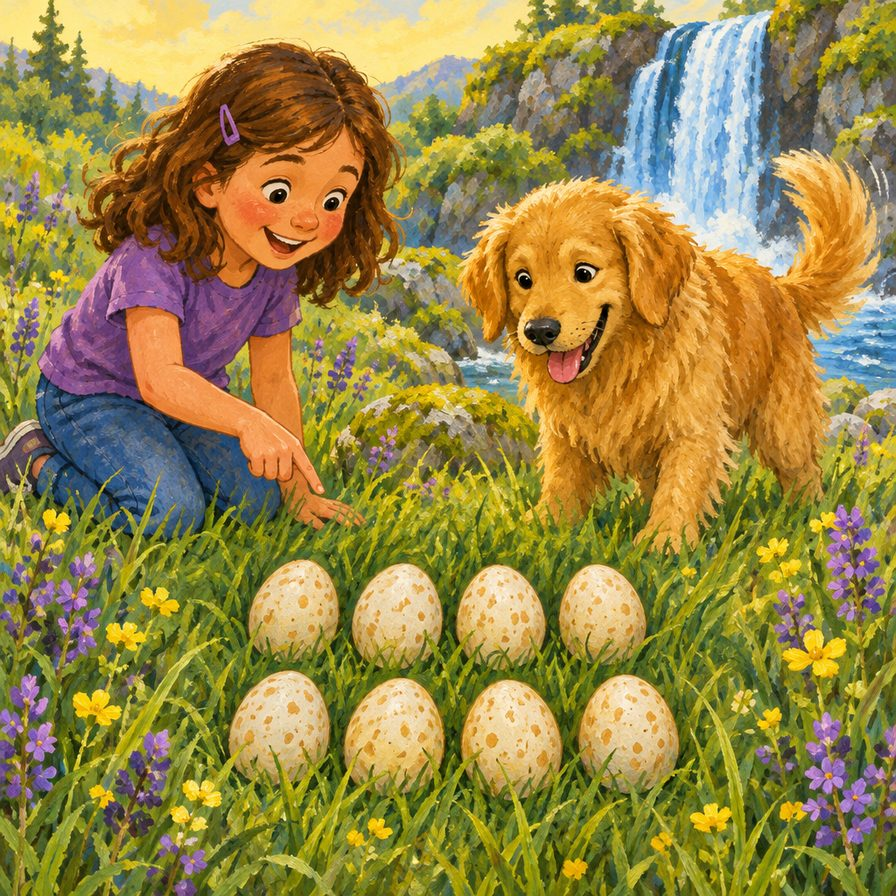
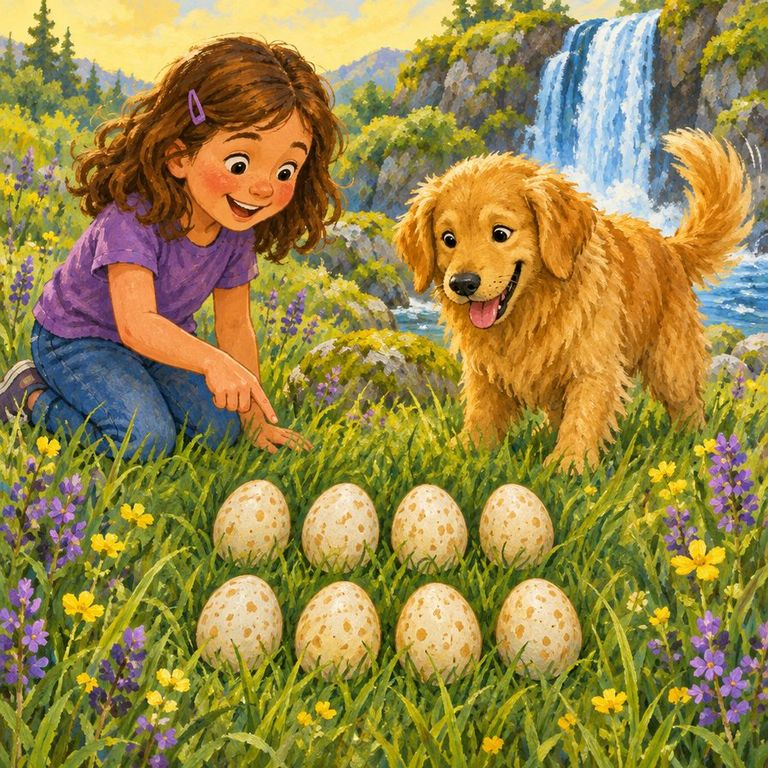
Dino book: true branching story, fully painted
The book is a tree: each option names its own next chapter (4 versions of
chapter 2, 4 of chapter 3, 4 endings). Every page carries a painting in
the cover style (art/dino, 24 images), with the 3D scene as fallback.

diff --git a/index.html b/index.html
@@ -1132,70 +1132,120 @@ const DEMO_BOOKS = (() => {
   const BOAT = {type:"boat", x:0, z:-.75, color:"#B9824F", color2:"#FFF3DC", move:"bob"};
   const farDot = at(DOT, 2.6, -2.7, {turn:-.3});
 
+  /* The book is a tree. Every option leads to its own next chapter, so what the child picks in chapter 1
+     decides which chapter 2 they read, and so on to one of four endings. Nothing is replayed.
+     Each page has a painting (art/dino/...), with a 3D scene as a stand-in if the painting cannot load. */
+  const S_EGGS = day({characters:[MIA, as(BOBO,{move:"hop"})], props:[eggs(8)]});
+  const S_NEST = day({characters:[at(MIA,-2.4,1.7,{turn:.5}), at(BOBO,-3.5,2.2,{turn:.5}), DOT], props:[eggs(4)], fixed:[NEST].concat(nestEggs(4))});
+  const S_BABIES = day({characters:[at(MIA,-2.8,1.5,{turn:.5})].concat(babies(1.2)), fixed:[NEST].concat(nestEggs(4))});
+  const S_RIVER = dusk({characters:[at(MIA,-2.6,1.7,{turn:.4}), at(BOBO,-3.7,2.2,{turn:.4}), farDot].concat(babies(1.5, "idle")), fixed:[{type:"river", x:0, z:-.9}, BOAT]});
+  const S_NIGHT = dusk({time:"night", sky:"#22315F", fixed:[NEST, {type:"campfire", x:0, z:2.6}], characters:[as(MIA,{move:"wave"}), as(BOBO,{move:"hop"}), DOT, baby(2.6,1.1,"idle"), baby(3.2,1.1,"idle"), baby(2.6,1.5,"idle"), baby(3.2,1.5,"idle")], scenery:DUSK.filter(o => o.type !== "sun").concat([{type:"moon",x:-4,z:-2},{type:"star",x:0,z:-2},{type:"star",x:3.6,z:-1}])});
+  const P = (text, img, scene) => ({text, img: "art/dino/" + img + ".jpg", scene});
+  const BERRY_Q = {question: "There are 4 babies and 8 berries. How should Mia share them?", options: [
+    {label: "Give each baby 2 berries", hidden_type: "wise", leads_to: "Every baby gets the same. Nobody is left out.", next: "c3w"},
+    {label: "Give each baby 1 berry for now", hidden_type: "okay", leads_to: "Fair, but 4 berries are left and the babies are still hungry.", next: "c3o"},
+    {label: "Give all 8 to the cutest baby", hidden_type: "tempting_bad", leads_to: "One tummy ache and three sad babies.", coach: "It is hard when one is extra cute! Sharing equally means every baby gets the same: 2 each.", next: "c3t"},
+    {label: "Eat the berries herself", hidden_type: "clearly_bad", leads_to: "Four hungry babies.", coach: "Mia was hungry too. The berries were for the babies, and 8 shared by 4 is 2 each.", next: "c3b"}]};
+  const HATCH = [P("Crack! Crack! Four baby dinos pop out.", "c2c", S_BABIES), P("The babies open their mouths wide. They are very hungry!", "c2c", S_BABIES)];
+  const BOAT_Q = {question: "The boat carries half of the 4 babies. How many go first?", options: [
+    {label: "2 babies first, then 2 more", hidden_type: "wise", leads_to: "Half of 4 is 2. Two safe trips.", next: "ew"},
+    {label: "1 baby at a time", hidden_type: "okay", leads_to: "Safe, but four slow trips in the dark.", next: "eo"},
+    {label: "All 4 jump on. Splash party!", hidden_type: "tempting_bad", leads_to: "The little boat tips over.", coach: "A splash party sounds fun! The boat only holds half. Half of 4 is 2.", next: "et"},
+    {label: "Let them swim alone", hidden_type: "clearly_bad", leads_to: "The water is too fast for little dinos.", coach: "The river was too fast for little dinos. The boat can take half at a time: 2 and 2.", next: "eb"}]};
+  const RIVER = last => [
+    P("Bobo finds a little boat. It can carry half of the 4 babies each trip.", "c3c", S_RIVER),
+    P("Dot waits on the other side. She waves her tail.", "c3e", S_RIVER),
+    P(last, "c3e", S_RIVER)];
+
   return { dino: {
     key: "dino", canned: true, title: "Dino Rescue at Fraction Falls",
     settings: {child_name:"Mia", child_age:7, lesson:"Halves and sharing equally", lesson_type:"math"},
     check: {question: "What is half of 8?", answer: "4", accept: ["4", "four"]},
     report: {summary: "Mia's story practised halves and equal sharing with 8 eggs, 8 berries and 4 baby dinos.", highlights: ["Half of 8 is 4", "8 shared by 4 is 2 each", "Half of 4 is 2"], ask: "If we cut your sandwich in half, how many pieces do we get, and are they the same size?"},
-    chapters: [
-      { pages: [
-          {text: "Mia and Bobo walk to Fraction Falls. The water goes splash, splash, splash.", scene: day({characters:[as(MIA,{move:"wave"}), as(BOBO,{move:"hop"})]})},
-          {text: "In the tall grass they find something round. It is 8 dino eggs!", img: "art/dino/c1b.jpg", scene: day({characters:[as(MIA,{move:"wave"}), as(BOBO,{move:"hop"})], props:[eggs(8)]})},
-          {text: "The eggs are warm and wobbly. Bobo sniffs them. Sniff, sniff.", scene: day({characters:[MIA, BOBO], props:[eggs(8, {move:"shiver"})]})},
-          {text: "Oh no! One egg rolls away. It rolls down the hill.", scene: day({characters:[as(MIA,{move:"hop"}), as(BOBO,{move:"hop"})], props:[eggs(7)], fixed:[eggAt(.4, 3, "rollaway")]})},
-          {text: "Bobo runs fast. He brings the egg back, safe and sound.", scene: day({characters:[as(MIA,{move:"wave"}), as(BOBO,{move:"hop"})], props:[eggs(8)]})},
-          {text: "Then a big green dino walks up. Her name is Dot, and she looks worried.", scene: day({characters:[MIA, BOBO, DOT], props:[eggs(8)]})}],
+    start: "c1",
+    graph: {
+      c1: { pages: [
+          P("Mia and Bobo walk to Fraction Falls. The water goes splash, splash, splash.", "c1a", day({characters:[as(MIA,{move:"wave"}), as(BOBO,{move:"hop"})]})),
+          P("In the tall grass they find something round. It is 8 dino eggs!", "c1b", S_EGGS),
+          P("The eggs are warm and wobbly. Bobo sniffs them. Sniff, sniff.", "c1b", S_EGGS),
+          P("Oh no! One egg rolls away. It rolls down the hill.", "c1d", day({characters:[as(MIA,{move:"hop"}), as(BOBO,{move:"hop"})], props:[eggs(7)], fixed:[eggAt(.4, 3, "rollaway")]})),
+          P("Bobo runs fast. He brings the egg back, safe and sound.", "c1f", day({characters:[MIA, as(BOBO,{move:"hop"}), DOT], props:[eggs(8)]})),
+          P("Then a big green dino walks up. Her name is Dot, and she looks worried.", "c1f", day({characters:[MIA, BOBO, DOT], props:[eggs(8)]}))],
         question: "Dot's nest holds half of the 8 eggs. How many should Mia carry to the nest?",
         options: [
-          {label: "Carry 4 eggs to the nest", hidden_type: "wise", leads_to: "Half of 8 is 4. The nest is just right.",
-            result: {text: "Mia counts 4 eggs into the nest. Half are safe! Dot smiles a big dino smile.", scene: day({characters:[at(MIA,-2.2,1.7,{turn:.5, move:"wave"}), at(BOBO,-3.4,2.2,{turn:.5}), DOT], props:[eggs(4)], fixed:[NEST].concat(nestEggs(4))})}},
-          {label: "Carry 3 eggs, then come back", hidden_type: "okay", leads_to: "It works, but it takes two trips.",
-            result: {text: "Mia carries 3 eggs. That is not half yet. She goes back for 1 more, and now the nest has 4.", scene: day({characters:[at(MIA,-2.2,1.7,{turn:.5}), at(BOBO,-3.4,2.2,{turn:.5}), DOT], props:[eggs(5)], fixed:[NEST].concat(nestEggs(3))})}},
-          {label: "Roll all 8 down the hill. Wheee!", hidden_type: "tempting_bad", leads_to: "Fun for a second, then eggs everywhere.", coach: "Rolling looked fun! Eggs are safer when we carry them, and half of 8 is 4.",
-            result: {text: "Wheee! The eggs roll everywhere. Mia and Bobo chase them for a long time.", scene: day({characters:[at(MIA,-2.6,1.6,{move:"hop"}), at(BOBO,-1.2,2.4,{move:"walk"}), DOT], fixed:[eggAt(-4,2.6),eggAt(-.2,1.2,"rollaway"),eggAt(1.6,2.8),eggAt(3.6,1.8),eggAt(.6,2.2,"rollaway"),eggAt(4.6,2.9),eggAt(-3.2,.6),eggAt(2.4,.6)]})}},
-          {label: "Leave them. Eggs are boring.", hidden_type: "clearly_bad", leads_to: "The eggs get cold.", coach: "The eggs needed a helper. Next time we can count out half and carry them.",
-            result: {text: "The wind blows. The eggs get cold and shiver. Dot looks sad, so Mia hurries back to help.", scene: day({sky:"#B9C7D8", characters:[at(MIA,-3.2,1.8,{turn:.5}), at(BOBO,-4.2,2.4,{turn:.5}), DOT], props:[eggs(8,{move:"shiver"})]})}}] },
-      { pages: [
-          {text: "Now 4 eggs sit in the nest. The other 4 eggs rest in the grass.", scene: day({characters:[at(MIA,-2.4,1.7,{turn:.5}), at(BOBO,-3.5,2.2,{turn:.5})], props:[eggs(4)], fixed:[NEST].concat(nestEggs(4))})},
-          {text: "Mia and Bobo watch the eggs in the grass. They wait and wait.", scene: day({characters:[at(MIA,-2.4,1.7,{turn:.5}), at(BOBO,-3.5,2.2,{turn:.5, move:"hop"})], props:[eggs(4)], fixed:[NEST].concat(nestEggs(4))})},
-          {text: "Crack! Crack! The 4 eggs in the grass start to hatch.", scene: day({characters:[at(MIA,-2.4,1.7,{turn:.5, move:"hop"}), at(BOBO,-3.5,2.2,{turn:.5, move:"hop"})], props:[eggs(4, {move:"hop"})], fixed:[NEST].concat(nestEggs(4))})},
-          {text: "Four baby dinos pop out. They blink at Mia.", scene: day({characters:[at(MIA,-2.8,1.7,{turn:.5, move:"wave"}), at(BOBO,-3.9,2.3,{turn:.5, move:"hop"})].concat(babies(1.5, "idle")), fixed:[NEST].concat(nestEggs(4))})},
-          {text: "The babies open their mouths wide. They are very hungry!", scene: day({characters:[at(MIA,-2.8,1.7,{turn:.5}), at(BOBO,-3.9,2.3,{turn:.5})].concat(babies(1.5)), fixed:[NEST].concat(nestEggs(4))})},
-          {text: "Mia looks in her bag. She has 8 red berries.", scene: day({characters:[at(MIA,-2.8,1.3,{turn:.5})].concat(babies(.7, "idle")), props:[{type:"apple", count:8, size:.55, color:"#C2185B"}], fixed:[NEST].concat(nestEggs(4))})}],
-        question: "There are 4 babies and 8 berries. How should Mia share them?",
-        options: [
-          {label: "Give each baby 2 berries", hidden_type: "wise", leads_to: "8 shared by 4 is 2 each.",
-            result: {text: "Each baby gets 2 berries. Eight shared by four is two each. Nobody is left out.", scene: day({characters:[at(MIA,-2.8,1.5,{turn:.5, move:"wave"})].concat(babies(1.2)), fixed:[NEST].concat(nestEggs(4), BX.reduce((a, x) => a.concat([berry(x-.16, 2.1), berry(x+.16, 2.1)]), []))})}},
-          {label: "Give each baby 1 berry for now", hidden_type: "okay", leads_to: "Fair, but they are still hungry.",
-            result: {text: "Each baby gets 1 berry. They are still hungry, so Mia hands out the other 4 too.", scene: day({characters:[at(MIA,-2.8,1.5,{turn:.5})].concat(babies(1.2, "idle")), fixed:[NEST].concat(nestEggs(4), BX.map(x => berry(x, 2.1)), [berry(-2.6,2.6),berry(-2.9,2.75),berry(-2.3,2.75),berry(-2.6,2.95)])})}},
-          {label: "Give all 8 to the cutest baby", hidden_type: "tempting_bad", leads_to: "One tummy ache and three sad babies.", coach: "It is hard when one is extra cute! Sharing equally means every baby gets the same: 2 each.",
-            result: {text: "One baby gets all 8 berries and a tummy ache. Three babies cry. Mia shares again, 2 each.", scene: day({characters:[at(MIA,-2.8,1.5,{turn:.5})].concat([baby(-1.2,1.2,"hop"), baby(-.4,1.2,"idle"), baby(.4,1.2,"idle"), baby(1.2,1.2,"idle")]), fixed:[NEST].concat(nestEggs(4), [0,1,2,3,4,5,6,7].map(i => berry(-1.2 + Math.cos(i*.785)*.5, 2.3 + Math.sin(i*.785)*.35)))})}},
-          {label: "Eat the berries herself", hidden_type: "clearly_bad", leads_to: "Hungry babies.", coach: "Mia was hungry too. The berries were for the babies, and 8 shared by 4 is 2 each.",
-            result: {text: "Mia eats the berries. Four little tummies rumble. Mia feels bad and picks 8 more.", scene: day({characters:[at(MIA,-2.8,1.5,{turn:.5})].concat(babies(1.2, "idle")), fixed:[NEST].concat(nestEggs(4))})}}] },
-      { pages: [
-          {text: "The sun is going down. It is time for the babies to go home.", scene: dusk({characters:[at(MIA,-2.6,1.7,{turn:.4}), at(BOBO,-3.7,2.2,{turn:.4})].concat(babies(1.5, "idle"))})},
-          {text: "But home is on the other side of the river. The water is fast.", scene: dusk({characters:[at(MIA,-2.6,1.7,{turn:.4}), at(BOBO,-3.7,2.2,{turn:.4})].concat(babies(.4, "idle"))})},
-          {text: "Bobo finds a little boat. It is small and wobbly.", scene: dusk({characters:[at(MIA,-2.6,1.7,{turn:.4}), at(BOBO,-1.6,.3,{turn:.6, move:"hop"})].concat(babies(1.5, "idle")), fixed:[{type:"river", x:0, z:-.9}, BOAT]})},
-          {text: "The boat can carry half of the 4 babies each trip.", scene: dusk({characters:[at(MIA,-2.6,1.7,{turn:.4, move:"wave"}), at(BOBO,-3.7,2.2,{turn:.4})].concat(babies(1.5)), fixed:[{type:"river", x:0, z:-.9}, BOAT]})},
-          {text: "Dot waits on the other side. She waves her tail.", scene: dusk({characters:[at(MIA,-2.6,1.7,{turn:.4}), at(BOBO,-3.7,2.2,{turn:.4}), farDot].concat(babies(1.5, "idle")), fixed:[{type:"river", x:0, z:-.9}, BOAT]})},
-          {text: "Mia thinks hard. Who goes first?", scene: dusk({characters:[at(MIA,-2.6,1.7,{turn:.4, move:"hop"}), at(BOBO,-3.7,2.2,{turn:.4}), farDot].concat(babies(1.5, "idle")), fixed:[{type:"river", x:0, z:-.9}, BOAT]})}],
-        question: "Half of the 4 babies go first. How many is that?",
-        options: [
-          {label: "2 babies first, then 2 more", hidden_type: "wise", leads_to: "Half of 4 is 2. Two safe trips.",
-            result: {text: "Two babies ride across, then two more. Half and half. Everyone is dry and safe.", scene: dusk({characters:[at(MIA,-2.6,1.7,{turn:.4, move:"wave"}), farDot, baby(-.25,-.7,"idle"), baby(.3,-.7,"idle"), baby(1.6,-2.5,"hop"), baby(3.6,-2.3,"hop")], fixed:[{type:"river", x:0, z:-.9}, BOAT]})}},
-          {label: "1 baby at a time", hidden_type: "okay", leads_to: "Safe, but slow.",
-            result: {text: "One by one they cross. It is slow and the sun is almost gone, but they all make it.", scene: dusk({characters:[at(MIA,-2.6,1.7,{turn:.4}), farDot, baby(0,-.7,"idle"), baby(-.4,1.5,"idle"), baby(.4,1.5,"idle"), baby(1.2,1.5,"idle")], fixed:[{type:"river", x:0, z:-.9}, BOAT]})}},
-          {label: "All 4 jump on. Splash party!", hidden_type: "tempting_bad", leads_to: "The boat tips over.", coach: "A splash party sounds fun! The boat only holds half. Half of 4 is 2.",
-            result: {text: "The boat tips. Splash! Four wet babies paddle back. They try again, two at a time.", scene: dusk({characters:[at(MIA,-2.6,1.7,{turn:.4, move:"hop"}), farDot, baby(-1.3,-.2,"hop"), baby(-.5,.2,"hop"), baby(.6,.1,"hop"), baby(1.4,-.2,"hop")], fixed:[{type:"river", x:0, z:-.9}, Object.assign({}, BOAT, {move:"spin"})]})}},
-          {label: "Let them swim alone", hidden_type: "clearly_bad", leads_to: "The water is too fast.", coach: "The river was too fast for little dinos. The boat can take half at a time: 2 and 2.",
-            result: {text: "The water is too fast. Mia calls the babies back just in time. They use the boat.", scene: dusk({characters:[at(MIA,-2.6,1.7,{turn:.4, move:"wave"}), farDot].concat(BX.map(x => baby(x, .5, "idle"))), fixed:[{type:"river", x:0, z:-.9}, BOAT]})}}] }],
-    endings: {
-      good: { pages: [
-        {text: "All the dinos are home. Dot gives Mia a shiny golden egg shell.", scene: dusk({time:"night", sky:"#22315F", fixed:[NEST, {type:"campfire", x:0, z:2.6}], props:[{type:"egg", count:1, color:"#FFD43B", move:"spin"}], characters:[as(MIA,{move:"wave"}), as(BOBO,{move:"hop"}), DOT, baby(2.6,1.1,"idle"), baby(3.2,1.1,"idle"), baby(2.6,1.5,"idle"), baby(3.2,1.5,"idle")], scenery:DUSK.filter(o => o.type !== "sun").concat([{type:"moon",x:-4,z:-2},{type:"star",x:0,z:-2},{type:"star",x:3.6,z:-1}])})},
-        {text: "Mia learned that half means two equal parts. Bobo wags his tail. The end.", scene: dusk({time:"night", sky:"#22315F", fixed:[NEST, {type:"campfire", x:0, z:2.6}], characters:[as(MIA,{move:"wave"}), as(BOBO,{move:"hop"}), DOT, baby(2.6,1.1,"hop"), baby(3.2,1.1,"hop"), baby(2.6,1.5,"hop"), baby(3.2,1.5,"hop")], scenery:DUSK.filter(o => o.type !== "sun").concat([{type:"moon",x:-4,z:-2},{type:"star",x:0,z:-2},{type:"star",x:3.6,z:-1}])})}] },
-      mixed: { pages: [
-        {text: "It took a few tries, but all the dinos are home at last.", scene: dusk({time:"night", sky:"#22315F", fixed:[NEST, {type:"campfire", x:0, z:2.6}], characters:[MIA, BOBO, DOT, baby(2.6,1.1,"idle"), baby(3.2,1.1,"idle"), baby(2.6,1.5,"idle"), baby(3.2,1.5,"idle")], scenery:DUSK.filter(o => o.type !== "sun").concat([{type:"moon",x:-4,z:-2},{type:"star",x:0,z:-2},{type:"star",x:3.6,z:-1}])})},
-        {text: "Mia learned that half means two equal parts. Next time she will count first. The end.", scene: dusk({time:"night", sky:"#22315F", fixed:[NEST, {type:"campfire", x:0, z:2.6}], characters:[as(MIA,{move:"wave"}), as(BOBO,{move:"hop"}), DOT, baby(2.6,1.1,"hop"), baby(3.2,1.1,"hop"), baby(2.6,1.5,"hop"), baby(3.2,1.5,"hop")], scenery:DUSK.filter(o => o.type !== "sun").concat([{type:"moon",x:-4,z:-2},{type:"star",x:0,z:-2},{type:"star",x:3.6,z:-1}])})}] } }
+          {label: "Carry 4 eggs to the nest", hidden_type: "wise", leads_to: "Half of 8 is 4. The nest is just right.", next: "c2w"},
+          {label: "Carry 3 eggs, then come back", hidden_type: "okay", leads_to: "Not half yet. A second trip, and a tired Mia.", next: "c2o"},
+          {label: "Roll all 8 down the hill. Wheee!", hidden_type: "tempting_bad", leads_to: "Eggs everywhere, and babies that hatch dizzy.", coach: "Rolling looked fun! Eggs are safer when we carry them, and half of 8 is 4.", next: "c2t"},
+          {label: "Leave them. Eggs are boring.", hidden_type: "clearly_bad", leads_to: "The eggs get cold in the wind.", coach: "The eggs needed a helper. Next time we can count out half and carry them.", next: "c2b"}] },
+
+      // chapter 2, four versions: one for each choice in chapter 1
+      c2w: Object.assign({ pages: [
+          P("Mia counts 4 eggs into the nest. One, two, three, four.", "r1w", S_NEST),
+          P("Half of 8 is 4! Dot smiles a big dino smile.", "r1w", S_NEST),
+          P("The other 4 eggs rest in the grass. Mia and Bobo watch them.", "c2a", S_NEST)].concat(HATCH, [
+          P("Mia looks in her bag. She has 8 red berries.", "c2e", S_BABIES)]) }, BERRY_Q),
+      c2o: Object.assign({ pages: [
+          P("Mia carries 3 eggs. Her arms are full.", "r1o", S_NEST),
+          P("Three is not half of 8. She has to go back for 1 more.", "r1o", S_NEST),
+          P("Two trips take a long time. Mia flops down in the grass to rest.", "c2a", S_NEST),
+          P("Crack! Crack! The 4 eggs in the grass hatch right next to her.", "c2c", S_BABIES),
+          P("Four baby dinos blink at Mia. They are very hungry!", "c2c", S_BABIES),
+          P("Mia is tired, but she finds 8 red berries in her bag.", "c2e", S_BABIES)] }, BERRY_Q),
+      c2t: Object.assign({ pages: [
+          P("Wheee! The eggs roll and bounce down the hill.", "r1t", day({characters:[at(MIA,-2.6,1.6,{move:"hop"}), at(BOBO,-1.2,2.4,{move:"walk"}), DOT], fixed:[eggAt(-4,2.6),eggAt(-.2,1.2,"rollaway"),eggAt(1.6,2.8),eggAt(3.6,1.8),eggAt(.6,2.2,"rollaway"),eggAt(4.6,2.9),eggAt(-3.2,.6),eggAt(2.4,.6)]})),
+          P("They roll everywhere. Mia and Bobo chase them for a long time.", "r1t", S_EGGS),
+          P("At last all 8 eggs are found. Mia puts them down very gently.", "c1b", S_EGGS),
+          P("But the bumpy ride woke them up. Crack! Four babies pop out early.", "c2c", S_BABIES),
+          P("The babies are dizzy from all that rolling. And very hungry!", "c2c", S_BABIES),
+          P("Mia is sorry. She finds 8 red berries in her bag to cheer them up.", "c2e", S_BABIES)] }, BERRY_Q),
+      c2b: Object.assign({ pages: [
+          P("Mia walks away. A cold wind starts to blow.", "r1b", day({sky:"#B9C7D8", characters:[at(MIA,-3.2,1.8,{turn:.5}), at(BOBO,-4.2,2.4,{turn:.5}), DOT], props:[eggs(8,{move:"shiver"})]})),
+          P("The eggs shiver. Dot looks so sad.", "r1b", S_EGGS),
+          P("Mia runs back. She tucks big leaves around the eggs like blankets.", "d1", S_EGGS),
+          P("Bobo curls up close. Dot blows warm air. Slowly the eggs get warm.", "d1", S_EGGS),
+          P("Crack! Four baby dinos pop out, safe and warm. They are hungry!", "c2c", S_BABIES),
+          P("Mia looks in her bag. She has 8 red berries.", "c2e", S_BABIES)] }, BERRY_Q),
+
+      // chapter 3, four versions: one for each choice in chapter 2
+      c3w: Object.assign({ pages: [
+          P("Each baby gets 2 berries. Eight shared by four is two each.", "r2w", S_BABIES),
+          P("Nobody is left out. Four full, happy babies!", "r2w", S_BABIES),
+          P("The sun is going down. Home is across the river, and the water is fast.", "c3a", S_RIVER)].concat(RIVER("Mia thinks hard. Who goes first?")) }, BOAT_Q),
+      c3o: Object.assign({ pages: [
+          P("Each baby gets 1 berry. That is fair, but 4 berries are left over.", "r2o", S_BABIES),
+          P("The babies are still hungry, so Mia hands out the other 4. Now it is 2 each.", "r2o", S_BABIES),
+          P("Sharing twice took a while. The sun is going down fast.", "c3a", S_RIVER)].concat(RIVER("It is getting late. Mia thinks hard. Who goes first?")) }, BOAT_Q),
+      c3t: Object.assign({ pages: [
+          P("The cutest baby gets all 8 berries. Gulp, gulp, gulp.", "r2t", S_BABIES),
+          P("Now one baby has a tummy ache, and three babies cry.", "r2t", S_BABIES),
+          P("Mia picks more berries so everyone gets 2. By then the sun is going down.", "c3a", S_RIVER)].concat(RIVER("One baby still feels wobbly. Mia thinks hard. Who goes first?")) }, BOAT_Q),
+      c3b: Object.assign({ pages: [
+          P("Mia eats the berries herself. Yum... oh no.", "r2b", S_BABIES),
+          P("Four little tummies rumble. Mia feels bad.", "r2b", S_BABIES),
+          P("She picks 8 more berries, 2 for each baby. By then the sun is going down.", "c3a", S_RIVER)].concat(RIVER("The babies are sleepy. Mia thinks hard. Who goes first?")) }, BOAT_Q),
+
+      // four endings: one for each choice in chapter 3
+      ew: { pages: [
+          P("Two babies ride across. Then two more. Half and half!", "r3w", S_RIVER),
+          P("Everyone is dry and safe on the other side.", "r3w", S_RIVER),
+          P("Dot gives Mia a shiny golden piece of eggshell to say thank you.", "e1", S_NIGHT),
+          P("Mia learned that half means two equal parts. The end.", "e1", S_NIGHT)] },
+      eo: { pages: [
+          P("One by one the babies cross. It takes four slow trips.", "r3o", S_RIVER),
+          P("The sun is gone and the stars are out, but they all make it.", "r3o", S_RIVER),
+          P("Dot tucks her babies in. She gives Mia a shiny piece of eggshell.", "e1", S_NIGHT),
+          P("Two at a time would be faster. Half of 4 is 2. The end.", "e1", S_NIGHT)] },
+      et: { pages: [
+          P("All four babies jump in. The little boat tips over. Splash!", "r3t", S_RIVER),
+          P("Four wet babies paddle back to the bank. Nobody is hurt.", "r3t", S_RIVER),
+          P("They try again, 2 at a time. Half and half works!", "r3w", S_RIVER),
+          P("Dot gives Mia a shiny piece of eggshell. Half of 4 is 2. The end.", "e1", S_NIGHT)] },
+      eb: { pages: [
+          P("The babies put their toes in. The water is too fast!", "r3b", S_RIVER),
+          P("Mia calls them back just in time. Bobo helps.", "r3b", S_RIVER),
+          P("They use the boat, 2 at a time. Half and half works!", "r3w", S_RIVER),
+          P("Everyone is home. Dot gives Mia a shiny piece of eggshell. The end.", "e1", S_NIGHT)] }
+    }
   } };
 })();
 function startDemo(key, settings){
@@ -1210,14 +1260,16 @@ function makeDemoScene(){
   const book = S.demo, n = S.scenes.length + 1, last = S.choices[S.choices.length - 1];
   const picked = last && last.options.find(o => o.label === last.label);
   const wise = S.choices.filter(c => c.hidden_type === "wise").length;
-  const ch = n <= book.chapters.length ? book.chapters[n - 1] : (wise >= 2 ? book.endings.good : book.endings.mixed);
+  const ch = book.graph
+    ? (book.graph[n === 1 ? book.start : (picked && picked.next)] || book.graph[book.start]) // a tree: the option picked names the next chapter
+    : n <= book.chapters.length ? book.chapters[n - 1] : (wise >= 2 ? book.endings.good : book.endings.mixed);
   const pages = [];
   if (n === 1) pages.push({text: `${book.title}. A book for ${S.settings.child_name}.`, cover: true, src: ch.pages[0]});
   if (picked && picked.result) pages.push({text: picked.result.text, cons: true, src: picked.result});
   ch.pages.forEach((pg, i) => pages.push({text: pg.text, src: pg, first: i === 0}));
   const options = (ch.options || []).map(o => Object.assign({}, o));
   for (let i = options.length - 1; i > 0; i--) { const j = Math.floor(Math.random() * (i + 1)); [options[i], options[j]] = [options[j], options[i]]; }
-  const scene = {consequence_text: picked && picked.result ? picked.result.text : "", scene_text: ch.pages.map(pg => pg.text).join(" "), question: ch.question || "", options, is_ending: !ch.options, _pages: pages, scene3d: null};
+  const scene = {consequence_text: picked ? (picked.result ? picked.result.text : picked.leads_to || "") : "", scene_text: ch.pages.map(pg => pg.text).join(" "), question: ch.question || "", options, is_ending: !ch.options, _pages: pages, scene3d: null};
   S.scenes.push(scene); S.page = 0; S.busy = false; S.error = null;
   return scene;
 }
@@ -1545,7 +1597,7 @@ Reply in 1-2 warm, simple sentences. Praise good thinking; if they missed the po
   S.choices[S.choices.length - 1].thinkback = answer;
   t.busy = false; render(); speak(t.reply);
 }
-function finishThink(){ S.think = null; S.page = currentScene().consequence_text ? 1 : 0; render(); speakPage(); }
+function finishThink(){ S.think = null; S.page = (pagesOf(currentScene())[0] || {}).cons ? 1 : 0; render(); speakPage(); }
 function rewind(){
   if (S.rewindUsed || !S.choices.length || S.busy) return;
   stopSpeak();

diff --git a/PROGRESS.md b/PROGRESS.md
@@ -1,6 +1,13 @@
 # StoryForge progress
 
-Last updated: Friday Nov 13, 12:54 PM. Deck locks at 4:00 PM.
+Last updated: Friday Nov 13, 1:11 PM. Deck locks at 4:00 PM.
+
+## Newest: the dino book truly branches and is fully painted
+
+- "Dino Rescue at Fraction Falls" is now a tree, not a line. The choice in chapter 1 decides which of 4 different chapter 2s is read; the choice in chapter 2 decides which of 4 chapter 3s; the choice in chapter 3 decides which of 4 endings. Nothing is replayed and there is no "result page, then carry on as if you picked right". The book is `DEMO_BOOKS.dino.graph` in `index.html`: every option has `next`, the id of the chapter it leads to.
+- Every page has a painting in the cover style (24 paintings in `art/dino/`, made with Figma's image generator). Counts were checked against the text; three were redone for wrong counts. If a painting cannot load, the page shows its 3D scene.
+- All four paths played to the end locally: 24 pages each, every painting loaded, 0 AI calls.
+- Not yet: AI books (Surprise book, Make a book) still use the older shape, where each option gets its own result page and the story then joins up again. Making those branch the same way is the next job.
 
 ## Newest: longer books, no loading mid-book, grown-ups area
 
